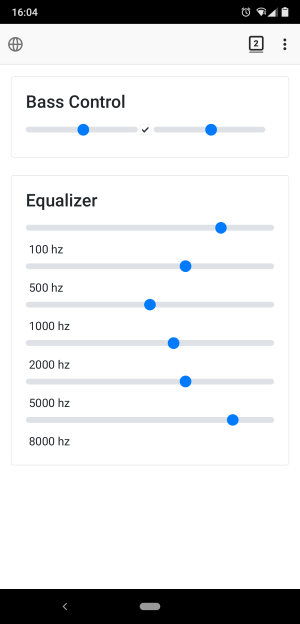
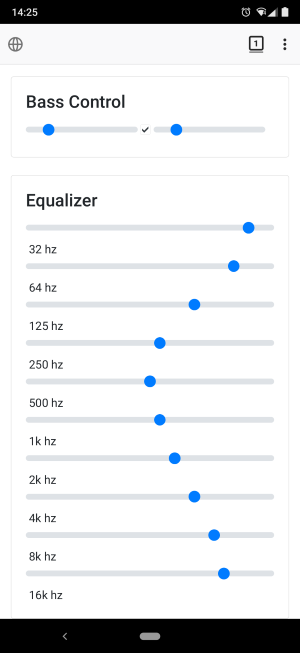
Enhanced EQ and bass

Changed region(s): [[0.0, 0.274, 1.0, 1.0], [0.0, 0.0, 1.0, 0.0913], [0.09, 0.1218, 0.9, 0.2436]]

diff --git a/Server/index.html b/Server/index.html
@@ -60,6 +60,7 @@
                         $('#eq2').val(parseFloat(data.band2));
                         $('#eq3').val(parseFloat(data.band3));
                         $('#eq4').val(parseFloat(data.band4));
+                        $('#eq5').val(parseFloat(data.band5));
                         $('#eq6').val(parseFloat(data.band6));
                         $('#eq7').val(parseFloat(data.band7));
                         $('#eq8').val(parseFloat(data.band8));
@@ -91,10 +92,10 @@
                 <h4 class="card-title">Bass Control</h4>
 
                 <div class="form-check-inline">
-                    <input type="range" name="left" id="left" min="0" max="33" value="30"
+                    <input type="range" name="left" id="left" min="0" max="65" value="30"
                         onchange="changeBassGain(this);" class="custom-range">&nbsp;
                     <input type="checkbox" name="sync" id="sync" checked class="form-check-input">
-                    <input type="range" name="right" id="right" min="0" max="33" value="30"
+                    <input type="range" name="right" id="right" min="0" max="65" value="30"
                         onchange="changeBassGain(this);" class="custom-range">
                 </div>
             </div>
@@ -105,34 +106,34 @@
             <div class="card-body custom-control custom-switch">
                 <h4 class="card-title">Equalizer</h4>
 
-                <input type="range" name="eq0" id="eq0" min="-12" max="12" value="0" step="0.5"
+                <input type="range" name="eq0" id="eq0" min="0" max="48" value="24" step="1"
                     onchange="changeEq(this);" class="custom-range" data-band="0">&nbsp;32&nbsp;hz
 
-                <input type="range" name="eq1" id="eq1" min="-12" max="12" value="0" step="0.5"
+                <input type="range" name="eq1" id="eq1" min="0" max="48" value="24" step="1"
                     onchange="changeEq(this);" class="custom-range" data-band="1">&nbsp;64&nbsp;hz
 
-                <input type="range" name="eq2" id="eq2" min="-12" max="12" value="0" step="0.5"
+                <input type="range" name="eq2" id="eq2" min="0" max="48" value="24" step="1"
                     onchange="changeEq(this);" class="custom-range" data-band="2">&nbsp;125&nbsp;hz
 
-                <input type="range" name="eq3" id="eq3" min="-12" max="12" value="0" step="0.5"
+                <input type="range" name="eq3" id="eq3" min="0" max="48" value="24" step="1"
                     onchange="changeEq(this);" class="custom-range" data-band="3">&nbsp;250&nbsp;hz
 
-                <input type="range" name="eq4" id="eq4" min="-12" max="12" value="0" step="0.5"
+                <input type="range" name="eq4" id="eq4" min="0" max="48" value="24" step="1"
                     onchange="changeEq(this);" class="custom-range" data-band="4">&nbsp;500&nbsp;hz
 
-                <input type="range" name="eq5" id="eq5" min="-12" max="12" value="0" step="0.5"
+                <input type="range" name="eq5" id="eq5" min="0" max="48" value="24" step="1"
                     onchange="changeEq(this);" class="custom-range" data-band="5">&nbsp;1k&nbsp;hz
 
-                <input type="range" name="eq6" id="eq6" min="-12" max="12" value="0" step="0.5"
+                <input type="range" name="eq6" id="eq6" min="0" max="48" value="24" step="1"
                     onchange="changeEq(this);" class="custom-range" data-band="6">&nbsp;2k&nbsp;hz
 
-                <input type="range" name="eq7" id="eq7" min="-12" max="12" value="0" step="0.5"
+                <input type="range" name="eq7" id="eq7" min="0" max="48" value="24" step="1"
                     onchange="changeEq(this);" class="custom-range" data-band="7">&nbsp;4k&nbsp;hz
 
-                <input type="range" name="eq8" id="eq8" min="-12" max="12" value="0" step="0.5"
+                <input type="range" name="eq8" id="eq8" min="0" max="48" value="24" step="1"
                     onchange="changeEq(this);" class="custom-range" data-band="8">&nbsp;8k&nbsp;hz
 
-                <input type="range" name="eq9" id="eq9" min="-12" max="12" value="0" step="0.5"
+                <input type="range" name="eq9" id="eq9" min="0" max="48" value="24" step="1"
                     onchange="changeEq(this);" class="custom-range" data-band="9">&nbsp;16k&nbsp;hz
 
             </div>

diff --git a/Server/index.h b/Server/index.h
@@ -61,6 +61,7 @@ const char MAIN_page[] PROGMEM = R"=====(
                         $('#eq2').val(parseFloat(data.band2));
                         $('#eq3').val(parseFloat(data.band3));
                         $('#eq4').val(parseFloat(data.band4));
+                        $('#eq5').val(parseFloat(data.band5));
                         $('#eq6').val(parseFloat(data.band6));
                         $('#eq7').val(parseFloat(data.band7));
                         $('#eq8').val(parseFloat(data.band8));
@@ -92,10 +93,10 @@ const char MAIN_page[] PROGMEM = R"=====(
                 <h4 class="card-title">Bass Control</h4>
 
                 <div class="form-check-inline">
-                    <input type="range" name="left" id="left" min="0" max="33" value="30"
+                    <input type="range" name="left" id="left" min="0" max="65" value="30"
                         onchange="changeBassGain(this);" class="custom-range">&nbsp;
                     <input type="checkbox" name="sync" id="sync" checked class="form-check-input">
-                    <input type="range" name="right" id="right" min="0" max="33" value="30"
+                    <input type="range" name="right" id="right" min="0" max="65" value="30"
                         onchange="changeBassGain(this);" class="custom-range">
                 </div>
             </div>
@@ -106,34 +107,34 @@ const char MAIN_page[] PROGMEM = R"=====(
             <div class="card-body custom-control custom-switch">
                 <h4 class="card-title">Equalizer</h4>
 
-                <input type="range" name="eq0" id="eq0" min="-12" max="12" value="0" step="0.5"
+                <input type="range" name="eq0" id="eq0" min="0" max="48" value="24" step="1"
                     onchange="changeEq(this);" class="custom-range" data-band="0">&nbsp;32&nbsp;hz
 
-                <input type="range" name="eq1" id="eq1" min="-12" max="12" value="0" step="0.5"
+                <input type="range" name="eq1" id="eq1" min="0" max="48" value="24" step="1"
                     onchange="changeEq(this);" class="custom-range" data-band="1">&nbsp;64&nbsp;hz
 
-                <input type="range" name="eq2" id="eq2" min="-12" max="12" value="0" step="0.5"
+                <input type="range" name="eq2" id="eq2" min="0" max="48" value="24" step="1"
                     onchange="changeEq(this);" class="custom-range" data-band="2">&nbsp;125&nbsp;hz
 
-                <input type="range" name="eq3" id="eq3" min="-12" max="12" value="0" step="0.5"
+                <input type="range" name="eq3" id="eq3" min="0" max="48" value="24" step="1"
                     onchange="changeEq(this);" class="custom-range" data-band="3">&nbsp;250&nbsp;hz
 
-                <input type="range" name="eq4" id="eq4" min="-12" max="12" value="0" step="0.5"
+                <input type="range" name="eq4" id="eq4" min="0" max="48" value="24" step="1"
                     onchange="changeEq(this);" class="custom-range" data-band="4">&nbsp;500&nbsp;hz
 
-                <input type="range" name="eq5" id="eq5" min="-12" max="12" value="0" step="0.5"
+                <input type="range" name="eq5" id="eq5" min="0" max="48" value="24" step="1"
                     onchange="changeEq(this);" class="custom-range" data-band="5">&nbsp;1k&nbsp;hz
 
-                <input type="range" name="eq6" id="eq6" min="-12" max="12" value="0" step="0.5"
+                <input type="range" name="eq6" id="eq6" min="0" max="48" value="24" step="1"
                     onchange="changeEq(this);" class="custom-range" data-band="6">&nbsp;2k&nbsp;hz
 
-                <input type="range" name="eq7" id="eq7" min="-12" max="12" value="0" step="0.5"
+                <input type="range" name="eq7" id="eq7" min="0" max="48" value="24" step="1"
                     onchange="changeEq(this);" class="custom-range" data-band="7">&nbsp;4k&nbsp;hz
 
-                <input type="range" name="eq8" id="eq8" min="-12" max="12" value="0" step="0.5"
+                <input type="range" name="eq8" id="eq8" min="0" max="48" value="24" step="1"
                     onchange="changeEq(this);" class="custom-range" data-band="8">&nbsp;8k&nbsp;hz
 
-                <input type="range" name="eq9" id="eq9" min="-12" max="12" value="0" step="0.5"
+                <input type="range" name="eq9" id="eq9" min="0" max="48" value="24" step="1"
                     onchange="changeEq(this);" class="custom-range" data-band="9">&nbsp;16k&nbsp;hz
 
             </div>

diff --git a/Server/Sigma.cpp b/Server/Sigma.cpp
@@ -75,7 +75,7 @@ void Sigmastudiotype_fixpoint_convert( float value ) {
 void writeSigmaRegisterBassGain(byte devAddress, short address, String value) {
 
   int ival = value.toInt();
-  long lval = map(ival, 0, 33, 1, 1995);
+  long lval = map(ival, 0, 65, 1, 1995);
   float fval = lval / 1000.0;
     
   Sigmastudiotype_fixpoint_convert(fval);
